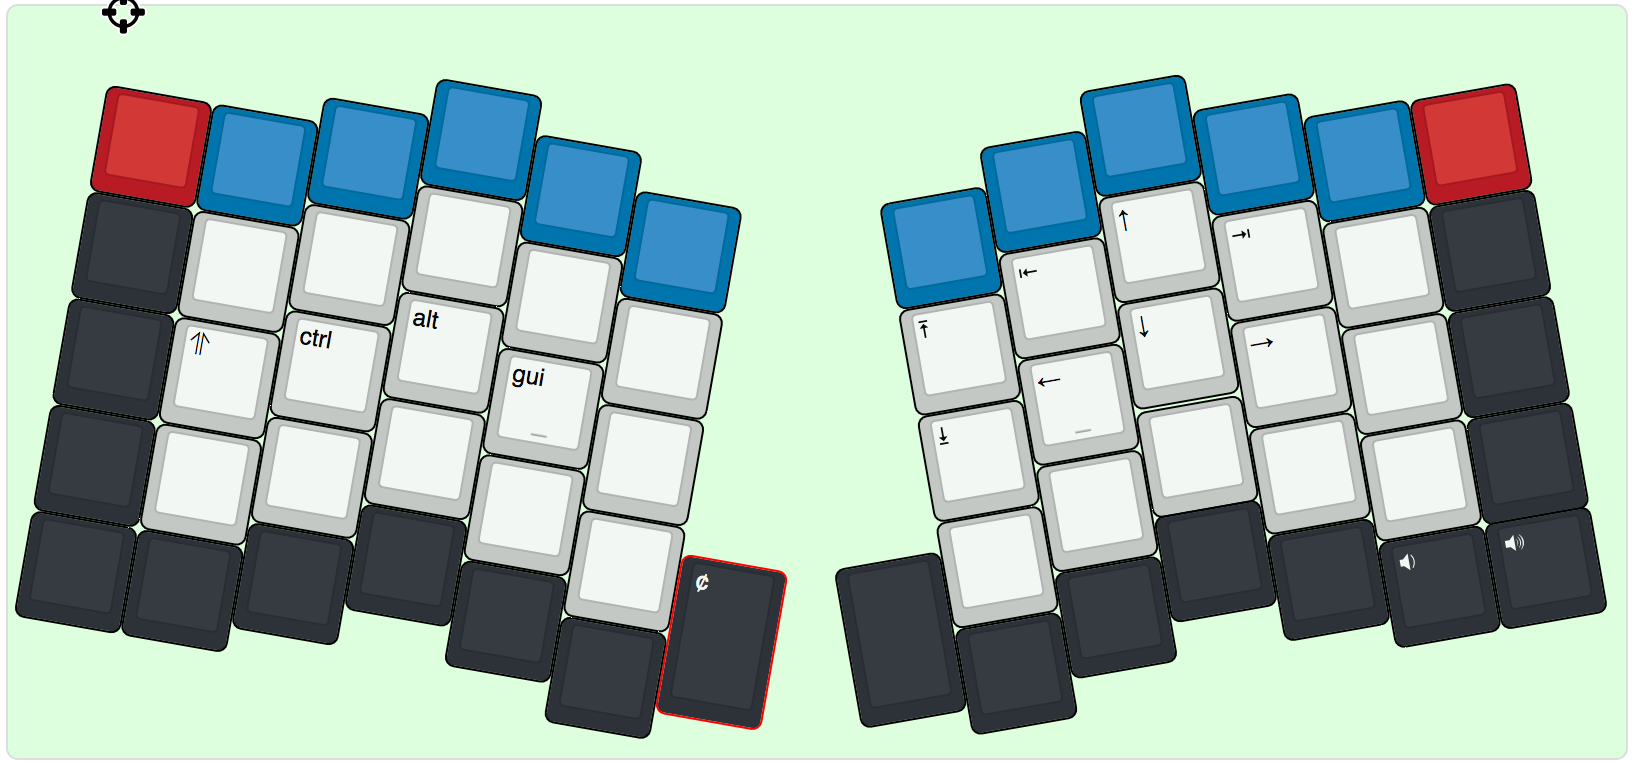
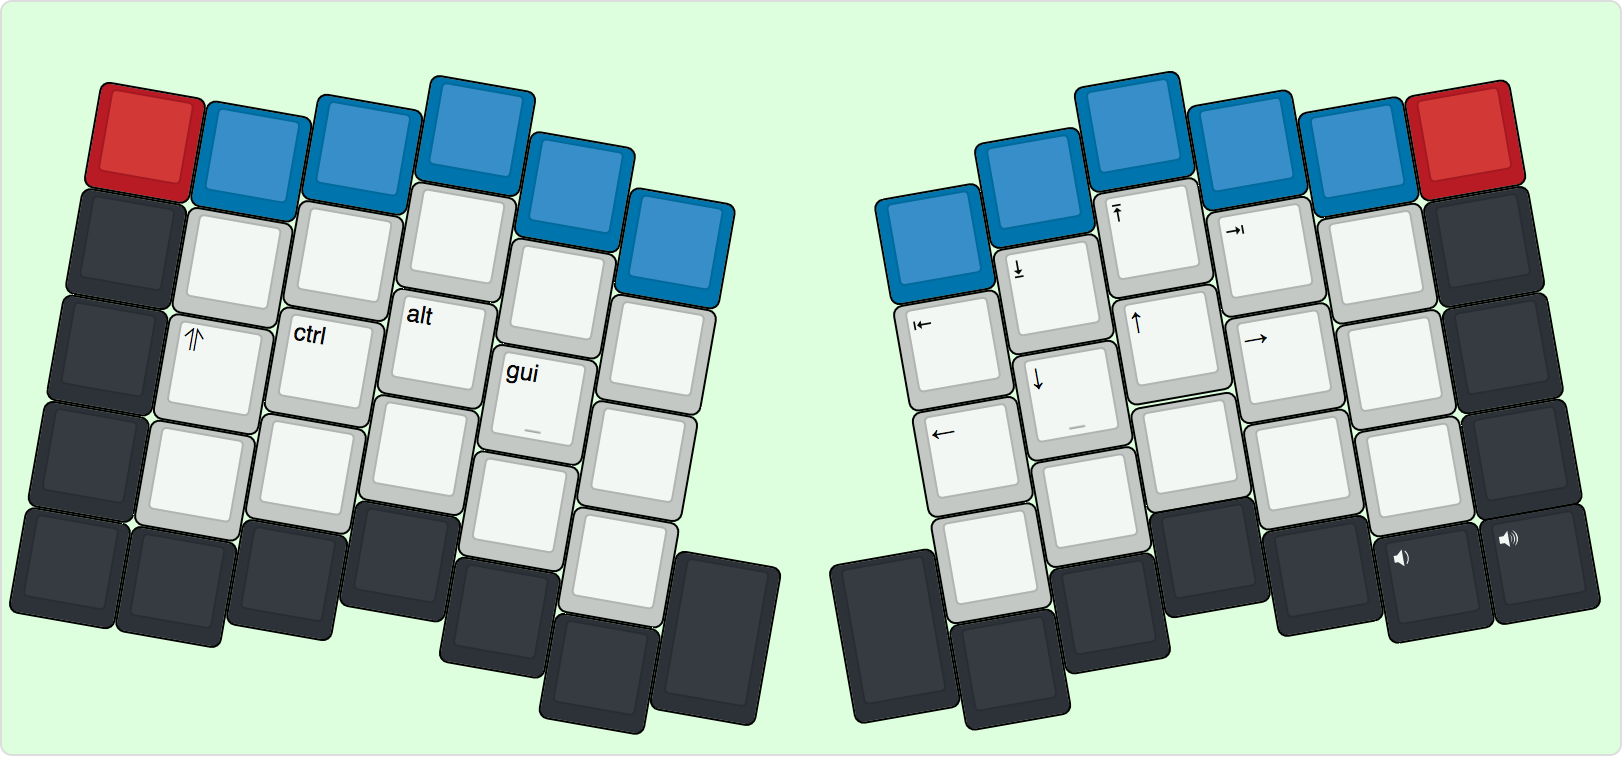
update readme

diff --git a/keyboards/atreus62/keymaps/mneme/keymap.c b/keyboards/atreus62/keymaps/mneme/keymap.c
@@ -97,11 +97,11 @@ const uint16_t PROGMEM keymaps[][MATRIX_ROWS][MATRIX_COLS] = {
 
   [BASE] = {
 
-   { M(KF_11) ,M(KF_1)  ,M(KF_2)  ,M(KF_3)  ,M(KF_4) ,M(KF_5)         ,KC_NO   ,M(KF_6)        ,M(KF_7) ,M(KF_8) ,M(KF_9) ,M(KF_10) ,M(KF_12) },
-   { KC_TAB   ,KC_Q     ,KC_W     ,KC_E     ,KC_R    ,KC_T            ,KC_NO   ,KC_Y           ,KC_U    ,KC_I    ,KC_O    ,KC_P     ,KN_AO },
-   { OSM_LCTL ,KC_A     ,KC_S     ,KC_D     ,KC_F    ,KC_G            ,KC_NO   ,KC_H           ,KC_J    ,KC_K    ,KC_L    ,KN_OE    ,KN_AE },
-   { OSM_LSFT ,KC_Z     ,KC_X     ,KC_C     ,KC_V    ,KC_B            ,KC_DELT ,KC_N           ,KC_M    ,KC_COMM ,KC_DOT  ,KN_MINS  ,OSM_LSFT },
-   { MO(NAV)  ,OSM_LCTL ,OSM_LALT ,KC_LGUI  ,KC_SPC  ,LT(SYM,KC_BSPC) ,KC_HYP  ,LT(SYM,KC_ENT) ,KC_SPC  ,KC_LEAD ,KC_LALT ,KC_LCTRL ,MO(NAV) }
+   { M(KF_11) ,M(KF_1)  ,M(KF_2)  ,M(KF_3)  ,M(KF_4) ,M(KF_5)  ,KC_NO   ,M(KF_6) ,M(KF_7) ,M(KF_8) ,M(KF_9) ,M(KF_10) ,M(KF_12) },
+   { KC_TAB   ,KC_Q     ,KC_W     ,KC_E     ,KC_R    ,KC_T     ,KC_NO   ,KC_Y    ,KC_U    ,KC_I    ,KC_O    ,KC_P     ,KN_AO },
+   { OSM_LCTL ,KC_A     ,KC_S     ,KC_D     ,KC_F    ,KC_G     ,KC_NO   ,KC_H    ,KC_J    ,KC_K    ,KC_L    ,KN_OE    ,KN_AE },
+   { OSM_LSFT ,KC_Z     ,KC_X     ,KC_C     ,KC_V    ,KC_B     ,KC_DELT ,KC_N    ,KC_M    ,KC_COMM ,KC_DOT  ,KN_MINS  ,OSM_LSFT },
+   { MO(NAV)  ,OSM_LCTL ,OSM_LALT ,KC_LGUI  ,MO(SYM) ,KC_BSPC  ,KC_ENT  ,KC_SPC  ,MO(SYM) ,KC_LEAD ,KC_LALT ,KC_LCTRL ,KC_HYP }
 
  },
   [NAV] = {

diff --git a/keyboards/atreus62/keymaps/mneme/config.h b/keyboards/atreus62/keymaps/mneme/config.h
@@ -1,7 +1,7 @@
 #define ONESHOT_TIMEOUT 3000
 #define TAPPING_TERM 200
 #define PREVENT_STUCK_MODIFIERS
-
+#define FORCE_NKRO
 #define LEADER_TIMEOUT 1000
 
 #include "../../config.h"

diff --git a/keyboards/atreus62/keymaps/mneme/README.md b/keyboards/atreus62/keymaps/mneme/README.md
@@ -33,6 +33,8 @@ It's for Windows (current work forces me to) and Swedish (matter of birth) so ym
     - `LEAD s l` : `λ`.
     - `LEAD s s` : `¯\_(ツ)_/¯`
     - `LEAD s f` : `凸(ツ)凸`
+    - `LEAD u l` : Set unicode input mode to linux.
+    - `LEAD s w` : Set unicode input mode to windows.
     - `LEAD a *` : Application switching based on position in start menu. Very specific to my computer.
 
 
@@ -42,7 +44,7 @@ It's for Windows (current work forces me to) and Swedish (matter of birth) so ym
 
 Basic navigation on the right hand and modifiers close
 by for the left. The latter because I tend to use `ctrl+arrows` quite a lot.
- 
+
 ## Sym layer
 
 ![Sym layer](img/sym.png)
